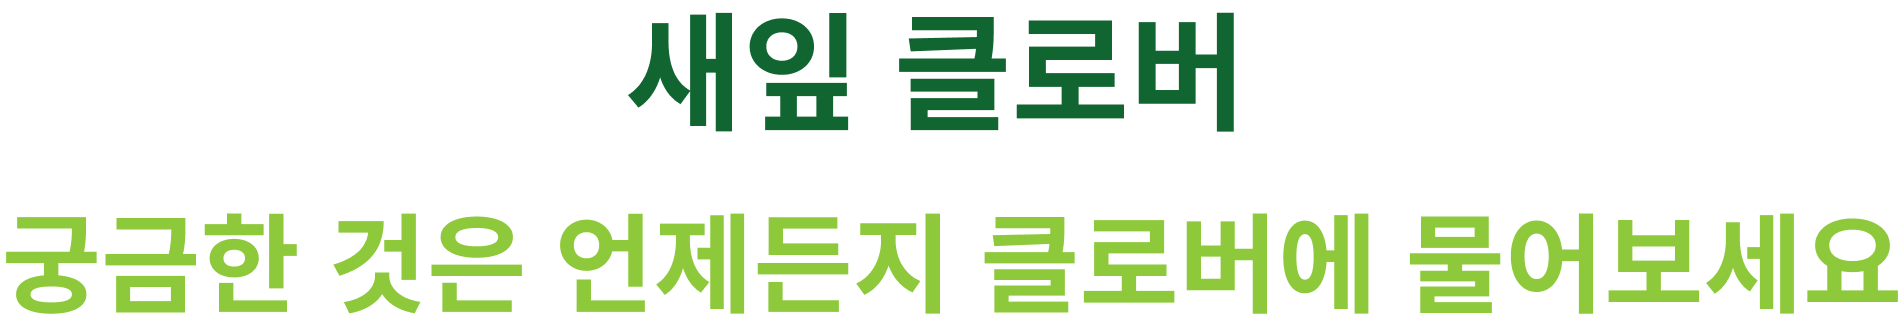
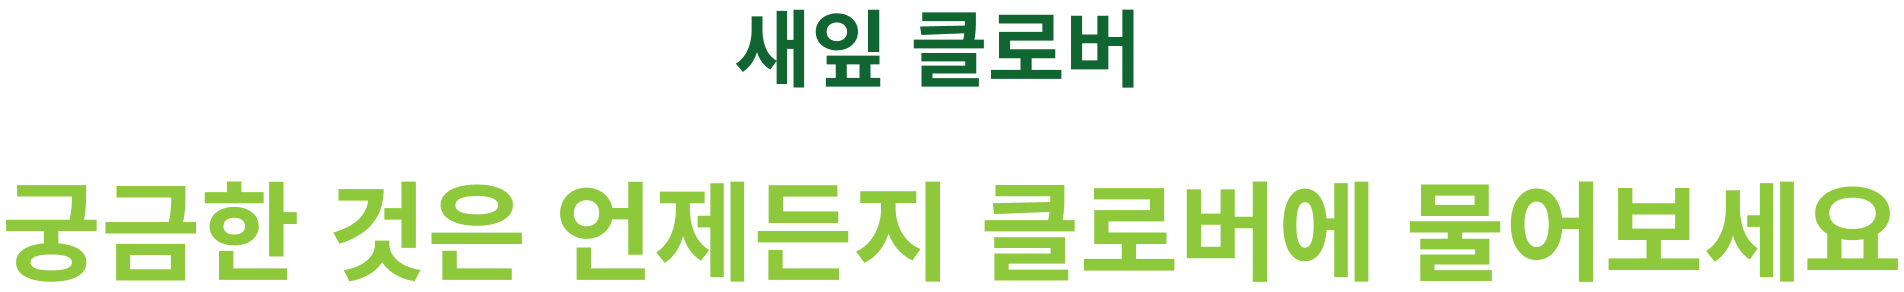
refactor: 랜딩페이지 컨텐츠 크기 키우기

diff --git a/frontend/sayif/src/components/Main/Main.jsx b/frontend/sayif/src/components/Main/Main.jsx
@@ -171,19 +171,19 @@ const Main = () => {
     return (
         <>  
             {/* First section */}
-            <S.MainTop ref={(el) => (sectionsRef.current[0] = el)} style={{ paddingTop: "50px" }}>
+            <S.MainTop ref={(el) => (sectionsRef.current[0] = el)} style={{ paddingTop: "35px" }}>
                 <S.GifContainer>
                     <img src={`${process.env.PUBLIC_URL}/gif/랜딩_새잎.gif`} alt="세잎클로버 GIF" />
                 </S.GifContainer>
                 <S.MainTopTitle>청년이 청년에게, <br /> 함께하는 IT 멘토링</S.MainTopTitle>
-                <S.MainText style={{ marginTop: "40px" }}>바로 이 곳<br />새잎에서</S.MainText>
+                <S.MainText style={{ marginTop: "50px" }}>바로 이 곳<br />새잎에서</S.MainText>
                 <S.HoverIcon onClick={() => scrollToSection(1)} />
             </S.MainTop>
             
            {/* Second section */}
            <S.MainTop ref={(el) => (sectionsRef.current[1] = el)} id="nextSection">
                 <S.ImageWrapper className="animated-element" data-delay="500">
-                    <S.MainText style={{ color: "#0B4619", marginTop: "30px", fontSize: "28px" }}>
+                    <S.MainText style={{ color: "#0B4619", fontSize: "35px", marginBottom: "100px"}}>
                         쉽고 재미있는 IT 교육으로 새로운 가능성을 발견하세요. <br />
                         청년 멘토와 같이 성장하고 꿈을 키워나가며, <br />
                         자유롭게 소통하고 정보를 공유하세요. <br />
@@ -246,10 +246,10 @@ const Main = () => {
              {/* Fifth section */}
              <S.InformationSection ref={(el) => (sectionsRef.current[4] = el)}>
                 <S.ImageWrapper className="animated-element" data-delay="500">
-                    <img style={{ width: "32%"}} src={`${process.env.PUBLIC_URL}/img/LandingPage/퀴즈 설명.png`} alt="Quiz Description" />
+                    <img style={{ width: "600px"}} src={`${process.env.PUBLIC_URL}/img/LandingPage/퀴즈 설명.png`} alt="퀴즈 설명" />
                 </S.ImageWrapper>
                 <S.ImageWrapper className="animated-element" data-delay="1000">
-                    <img style={{ width: "63%"}} src={`${process.env.PUBLIC_URL}/img/LandingPage/퀴즈 내용.png`} alt="Quiz Content" />
+                    <img style={{ width: "1000px"}} src={`${process.env.PUBLIC_URL}/img/LandingPage/퀴즈 내용.png`} alt="퀴즈 내용" />
                 </S.ImageWrapper>
             </S.InformationSection>
 
@@ -257,20 +257,20 @@ const Main = () => {
              {/* Sixth section */}
              <S.InformationSection ref={(el) => (sectionsRef.current[5] = el)}>
                 <S.ImageWrapper className="animated-element" data-delay="500">
-                    <img style={{ width: "26%"}} src={`${process.env.PUBLIC_URL}/img/LandingPage/자립 설명.png`} alt="Quiz Description" />
+                    <img style={{ width: "500px"}} src={`${process.env.PUBLIC_URL}/img/LandingPage/자립 설명.png`} alt="자립 지원 정보 기능 설명" />
                 </S.ImageWrapper>
                 <S.ImageWrapper className="animated-element" data-delay="1000">
-                    <img style={{ width: "65%", marginTop: "10px"}} src={`${process.env.PUBLIC_URL}/img/LandingPage/자립 내용.png`} alt="Quiz Content" />
+                    <img style={{ width: "1000px"}} src={`${process.env.PUBLIC_URL}/img/LandingPage/자립 내용.png`} alt="자립 지원 정보 기능 내용" />
                 </S.ImageWrapper>
             </S.InformationSection>
 
             {/* Seventh section */}
             <S.InformationSection ref={(el) => (sectionsRef.current[6] = el)}>
                 <S.ImageWrapper className="animated-element" data-delay="500">
-                    <img style={{ width: "28%"}} src={`${process.env.PUBLIC_URL}/img/LandingPage/챗봇 설명.png`} alt="Quiz Description" />
+                    <img style={{ width: "600px"}} src={`${process.env.PUBLIC_URL}/img/LandingPage/챗봇 설명.png`} alt="챗봇 기능 설명" />
                 </S.ImageWrapper>
                 <S.ImageWrapper className="animated-element" data-delay="1000">
-                    <img style={{ width: "31%", margin: "9px 0px 0px 0px"}} src={`${process.env.PUBLIC_URL}/img/LandingPage/챗봇 내용.png`} alt="Quiz Content" />
+                    <img style={{ width: "520px"}} src={`${process.env.PUBLIC_URL}/img/LandingPage/챗봇 내용.png`} alt="챗봇 기능 내용" />
                 </S.ImageWrapper>
             </S.InformationSection>
 

diff --git a/frontend/sayif/src/components/Main/styled.jsx b/frontend/sayif/src/components/Main/styled.jsx
@@ -26,14 +26,14 @@ const MainTop = styled.div`
 
 const MainTopTitle = styled.div`
     margin-top: 10px;
-    font-size: 50px;
+    font-size: 60px;
     font-family: Freesentation-9Black;
     animation: ${fadeInUp} 1.1s ease-out; 
 `;
 
 const MainText = styled.div`
     font-family: NanumBarunpen;
-    font-size: 18px;
+    font-size: 30px;
     font-weight: bold;
     transition: opacity 1s ease-out, transform 1s ease-out;
 `;
@@ -42,7 +42,7 @@ const GifContainer = styled.div`
     margin-bottom: 20px; 
     
     img {
-        width: 250px; 
+        width: 280px; 
         height: auto; 
     }
 `;
@@ -73,7 +73,7 @@ const SectionContent = styled.div`
     font-family: 'NanumBarunpen', sans-serif;
     z-index: 2; /* 텍스트를 위에 표시 */
     position: absolute;
-    top: 55%;
+    top: 50%;
     left: 50%;
     transform: translate(-50%, -50%);
     padding: 20px; /* 텍스트 주변 여백 */
@@ -100,7 +100,7 @@ const Overlay = styled.div`
 `;
 
 const HoverIcon = styled(ExpandMoreIcon)`
-    font-size: 55px; 
+    font-size: 55px;
     margin-top: 60px;
     cursor: pointer;
     color: #888888; 
@@ -122,11 +122,11 @@ const MainSplitSection = styled.div`
 `;
 
 const VideoContainer = styled.div`
-    margin-top: 70px;
-    width: 50vw; /* 화면 너비의 50%로 줄이기 */
-    height: 28.125vw; /* 16:9 비율을 유지하기 위한 높이 */
+    width: 60vw; /* 화면 너비의 60% */
+    height: 33.75vw; /* 16:9 비율을 유지하기 위한 높이 (60vw * 9/16) */
     display: flex;
     justify-content: center;
+    margin-bottom: 20px;
 
     iframe {
         width: 100%;
@@ -213,7 +213,7 @@ const InformationSection = styled.div`
     flex-direction: column;
     justify-content: center;
     align-items: center;
-    margin: 20px 50px 0px 0px;
+    margin-right: 50px;
     overflow-x: hidden; /* 가로 스크롤 숨기기 */
 `;
 
@@ -222,7 +222,6 @@ const ImageWrapper = styled.div`
     display: flex;
     justify-content: center;
     align-items: center;
-    margin: 20px 0px 0px 5px;
     opacity: 0;
     transform: translateY(20px);
     transition: opacity 2s ease-out, transform 2s ease-out;
@@ -233,7 +232,8 @@ const ImageWrapper = styled.div`
     }
 
     img {
-        margin-left: 60px;
+        margin-left: 70px;
+        margin-bottom: 40px;
     }
 `;
 
